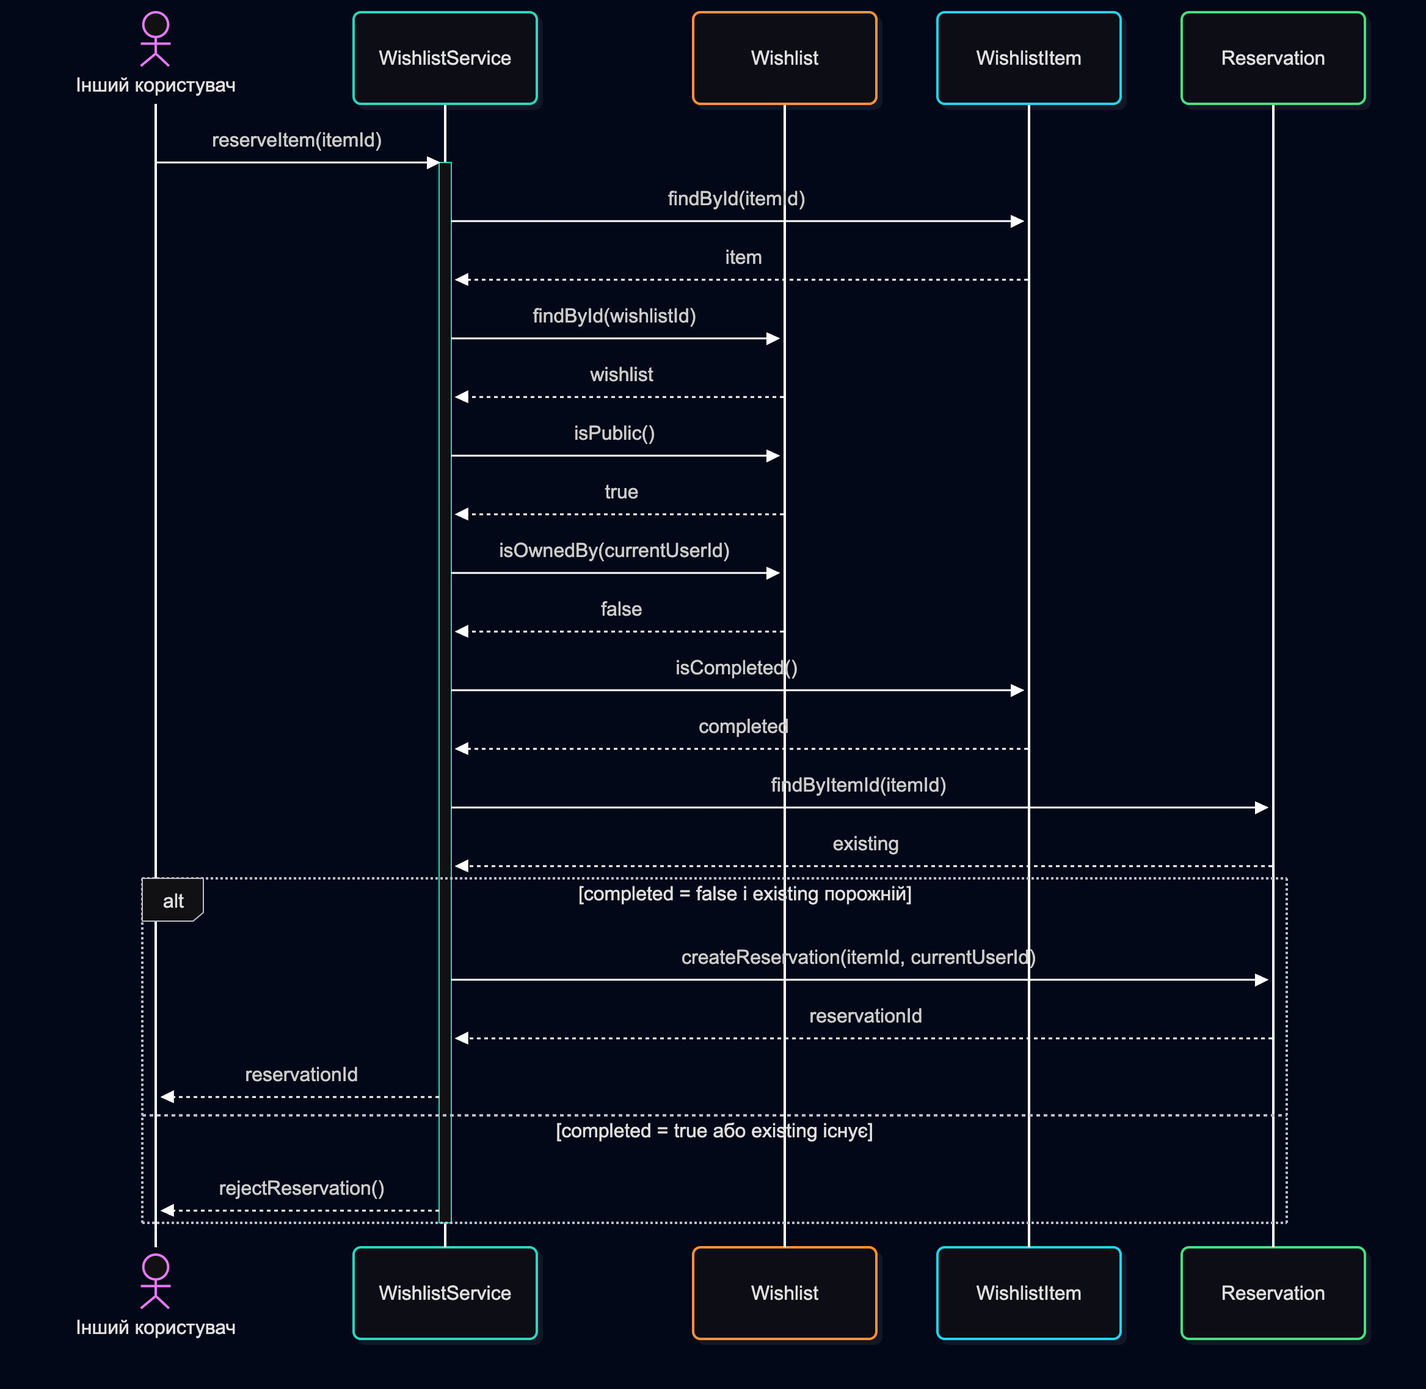
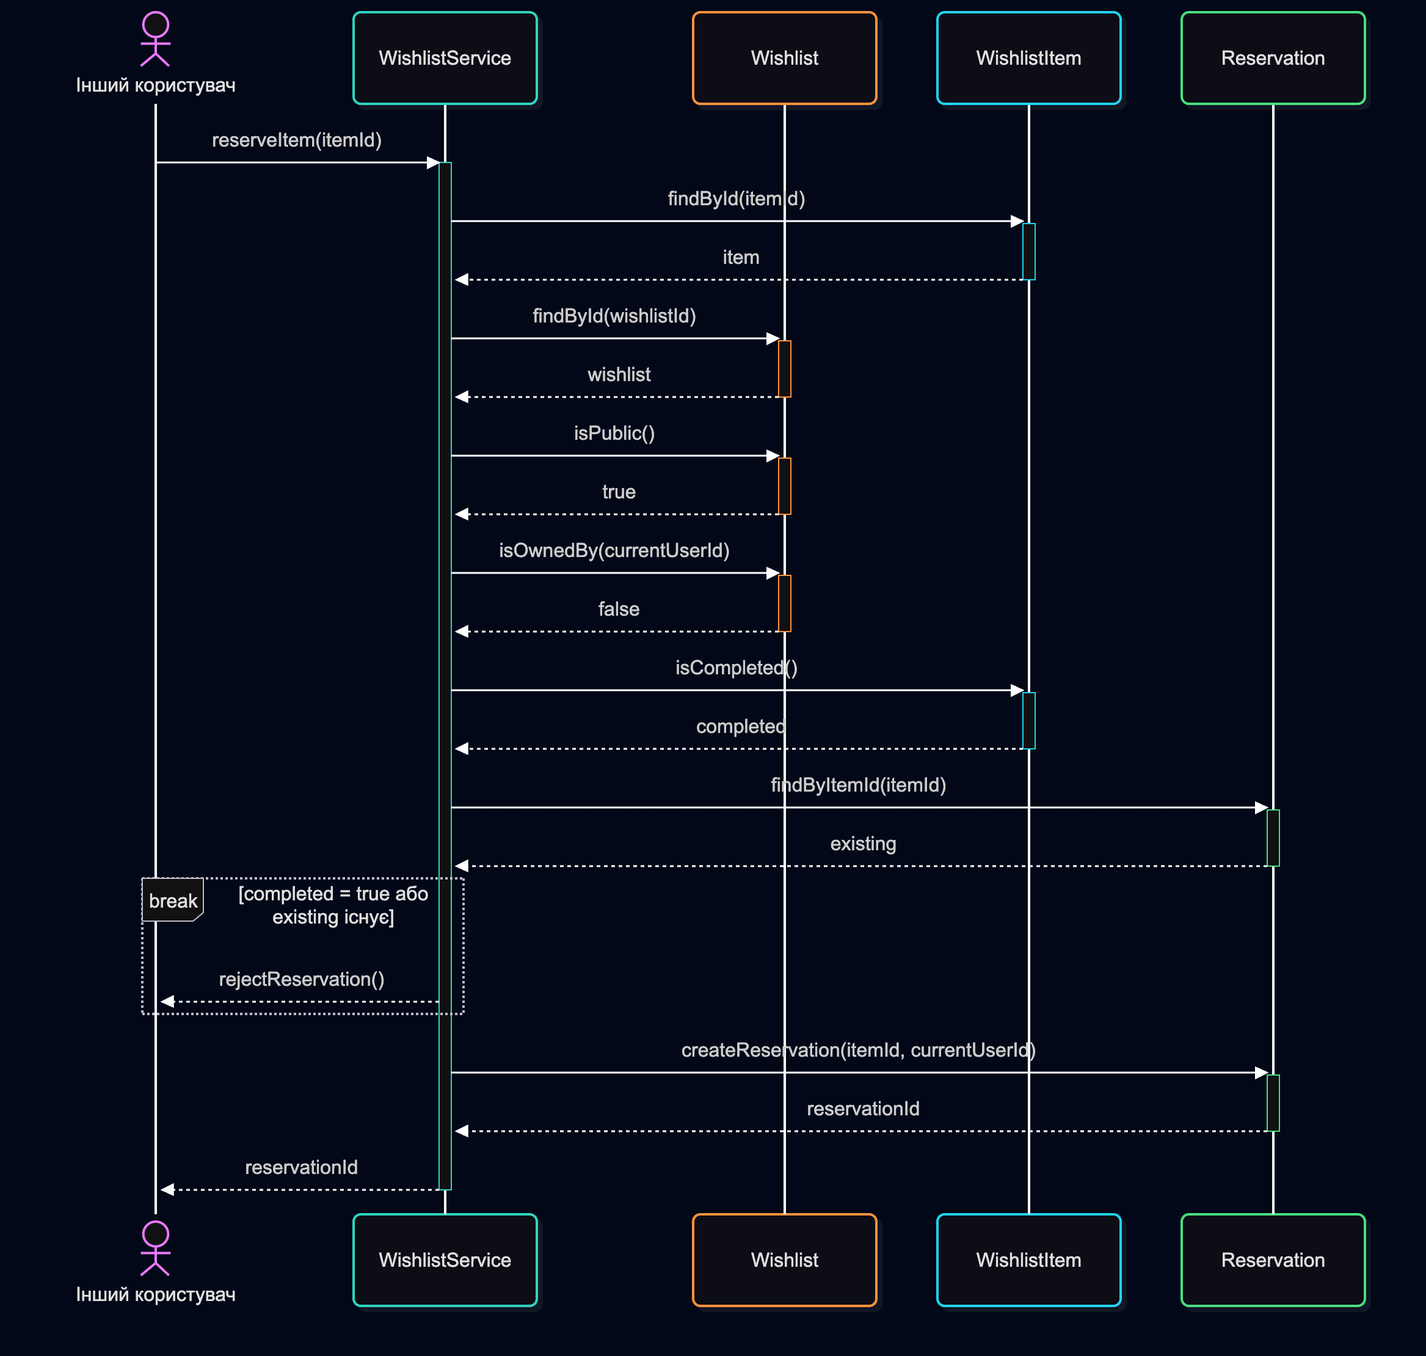
fix: use break for early reject and activate called entities

diff --git a/lab3/audit.md b/lab3/audit.md
@@ -15,15 +15,15 @@
 | Reservation | `Reservation` (`item_id`, `user_id`, `reserved_at`) |
 | WishlistService | компонент системи, який приймає `reserveItem()` |
 
-`WishlistService` не додає таблиці до моделі. `reserved_at` виставляє `WishlistService` усередині `createReservation(itemId, currentUserId)`. На SC-03 цей виклик стоїть лише в гілці `completed = false` і `existing` порожній. На SC-04 лінія `Reservation` є, бо гілка чужого товару може створити запис. Гілка `owned = true` викликає `rejectReservation()` і `createReservation()` не викликає. На SC-12 успішний `createReservation()` один: другий виклик для того самого `item_id` отримує `conflict`. Це зв'язок 1:0..1.
+`WishlistService` не додає таблиці до моделі. `reserved_at` виставляє `WishlistService` усередині `createReservation(itemId, currentUserId)`. На SC-03 цей виклик стоїть після `break`: охорона `completed = true` або `existing` існує для цього сценарію хибна. На SC-04 лінія `Reservation` є, бо після `break` з охороною `owned = true` шлях чужого товару може створити запис. Цей `break` викликає `rejectReservation()` і `createReservation()` не викликає. На SC-12 успішний `createReservation()` один: другий виклик для того самого `item_id` отримує `conflict`. Це зв'язок 1:0..1.
 
 ## 2. Кроки й сценарії Gherkin
 
-SC-03. Передумова «чужий публічний список» дає `isPublic() = true` і `isOwnedBy(currentUserId) = false`. Передумова «не завершений і без активного бронювання» — це гілка `completed = false` і `existing` порожній. Крок «користувач бронює товар» — це `reserveItem(itemId)`. Результат «система створює бронювання» — це `createReservation(itemId, currentUserId)` і повернення `reservationId`.
+SC-03. Передумова «чужий публічний список» дає `isPublic() = true` і `isOwnedBy(currentUserId) = false`. Передумова «не завершений і без активного бронювання» робить охорону `break` хибною, тож виконання йде лінійно до `createReservation`. Крок «користувач бронює товар» — це `reserveItem(itemId)`. Результат «система створює бронювання» — це `createReservation(itemId, currentUserId)` і повернення `reservationId`.
 
-SC-04. Передумова «товар належить до списку поточного користувача» — це гілка `owned = true`. Результат «система відхиляє запит, бронювання не створюється» — це `rejectReservation()` без `createReservation()`.
+SC-04. Передумова «товар належить до списку поточного користувача» — це `break` з охороною `owned = true`. Результат «система відхиляє запит, бронювання не створюється» — це `rejectReservation()` без `createReservation()`.
 
-Гілки `else` у SC-03 і SC-04 описують відмову для завершеного, уже заброньованого або приватного товару. Окремих сценаріїв Gherkin для них немає.
+Фрагменти `break` у SC-03 і SC-04 описують відмову для завершеного, уже заброньованого, власного або приватного товару. Окремих сценаріїв Gherkin для відмови в SC-03 і для другого `break` у SC-04 немає.
 
 SC-12. Передумова та сама, що в SC-03, але запити двоє. `par` показує, що обидва `findByItemId(itemId)` повертають `empty`. Результат «одне бронювання і відмова другому» — це `alt`: один `createReservation()` повертає `reservationId`, другий повертає `conflict`, і цей користувач отримує `rejectReservation()`. Обидві гілки дають один запис.
 

diff --git a/lab3/spec.md b/lab3/spec.md
@@ -19,7 +19,7 @@ UC-05 «Забронювати товар». Сценарії взято з ла
 | WishlistItem        | сутність лабораторної №1: `wishlist_id`, `is_completed`       |
 | Reservation         | сутність лабораторної №1: `item_id`, `user_id`, `reserved_at` |
 
-`WishlistService` активний до фрагмента `alt` і завершує активацію після нього. На SC-04 це стосується зовнішнього `alt`, разом із вкладеним. На SC-12 активація починається до `par` і закінчується після `alt`.
+`WishlistService` активний від `reserveItem(itemId)` і завершує активацію після відповіді користувачу. На SC-03 і SC-04 ця активація охоплює фрагменти `break` і лінійне продовження після них. На SC-12 вона починається до `par` і закінчується після `alt`. Кожен виклик `Wishlist`, `WishlistItem` і `Reservation` має власну активацію від вхідного повідомлення до відповіді.
 
 ## 3. SC-03. Успішне бронювання товару
 
@@ -32,8 +32,8 @@ UC-05 «Забронювати товар». Сценарії взято з ла
 5. `WishlistService` викликає `Wishlist.isOwnedBy(currentUserId)` і отримує `false`.
 6. `WishlistService` викликає `WishlistItem.isCompleted()` і отримує `completed`.
 7. `WishlistService` викликає `Reservation.findByItemId(itemId)` і отримує `existing`.
-8. `alt`: гілка `completed = false` і `existing` порожній викликає `Reservation.createReservation(itemId, currentUserId)` і отримує `reservationId`. Гілка `completed = true` або `existing` існує викликає `rejectReservation()` і запис не створює. Цей сценарій іде першою гілкою: Gherkin фіксує, що товар не завершений і бронювання немає.
-9. `WishlistService` повертає іншому користувачу `reservationId`.
+8. `break`: охорона `completed = true` або `existing` існує викликає `rejectReservation()` і запис не створює. Цей сценарій охорону не бере: Gherkin фіксує, що товар не завершений і бронювання немає.
+9. Далі лінійно `Reservation.createReservation(itemId, currentUserId)`. `WishlistService` повертає іншому користувачу `reservationId`.
 
 Результат Gherkin: система створює бронювання.
 
@@ -45,7 +45,7 @@ UC-05 «Забронювати товар». Сценарії взято з ла
 2. `WishlistService` викликає `WishlistItem.findById(itemId)` і отримує товар.
 3. `WishlistService` викликає `Wishlist.findById(wishlistId)` і отримує список.
 4. `WishlistService` викликає `Wishlist.isOwnedBy(currentUserId)` і отримує `owned`.
-5. `alt`: гілка `owned = true` викликає `rejectReservation()`. `Reservation.createReservation()` у цій гілці немає. Цей сценарій іде цією гілкою. Гілка `owned = false` викликає `Wishlist.isPublic()`, `WishlistItem.isCompleted()` і `Reservation.findByItemId(itemId)`. Вкладений `alt` створює бронювання лише коли список публічний, товар не завершений і `existing` порожній. Інакше знову `rejectReservation()`.
+5. Перший `break`: охорона `owned = true` викликає `rejectReservation()`. `createReservation()` після цього фрагмента не виконується. Цей сценарій іде цим `break`. Якщо `owned = false`, далі лінійно `Wishlist.isPublic()`, `WishlistItem.isCompleted()` і `Reservation.findByItemId(itemId)`. Другий `break`: охорона `public = false` або `completed = true` або `existing` існує знову викликає `rejectReservation()`. Якщо ця охорона хибна, лінійно `createReservation(itemId, currentUserId)` і повернення `reservationId`.
 
 Результат Gherkin: система відхиляє запит, бронювання не створюється.
 

diff --git a/lab3/DEFENSE.md b/lab3/DEFENSE.md
@@ -2,8 +2,8 @@
 
 ## Намір і критерії (1–2 речення)
 
-Мета завдання — описати внутрішню взаємодію Wishlist Service в сценаріях SC-03, SC-04 і SC-12 варіанта використання UC-05.
-Критерії успіху: окрема sequence-діаграма на кожен сценарій, учасники з ER-моделі, фрагменти `alt` і `par`, суцільна активація WishlistService.
+Мета завдання - описати внутрішню взаємодію Wishlist Service в сценаріях SC-03, SC-04 і SC-12 варіанта використання UC-05.
+Критерії успіху: окрема sequence-діаграма на кожен сценарій, учасники з ER-моделі, фрагменти `break`, `alt` і `par`, суцільна активація WishlistService.
 
 ## Топ-3 розбіжності (spec ↔ артефакт) + коміт-виправлення
 
@@ -19,7 +19,7 @@
 
 ## Перевірка — узгодженість із попередньою моделлю (як перевірив)
 
-Лінії життя зіставлено з сутностями лабораторної №1, кроки діаграм — зі SC-03, SC-04 і SC-12 у `lab2/scenarios.feature`. Охорона `alt` читає відповіді перевірок. На SC-12 фрагмент `par` показує два одночасні запити, а `alt` — хто встигає створити єдиний запис `Reservation`. Активація WishlistService починається до умовного фрагмента і закінчується після нього.
+Лінії життя зіставлено з сутностями лабораторної №1, кроки діаграм - зі SC-03, SC-04 і SC-12 у `lab2/scenarios.feature`. На SC-03 один `break` завершує сценарій відмовою, а створення бронювання йде лінійно після нього. На SC-04 два `break` так само відсікають відмову, успішний шлях після них лінійний. На SC-12 фрагмент `par` показує два одночасні запити, а `alt` — хто встигає створити єдиний запис `Reservation`. Активація WishlistService починається до умовного фрагмента і закінчується після відповіді користувачу. Виклики Wishlist, WishlistItem і Reservation мають короткі активації на час кожної відповіді.
 
 ## Здача
 

diff --git a/lab3/sc-12-reserve-concurrent.md b/lab3/sc-12-reserve-concurrent.md
@@ -15,45 +15,77 @@ sequenceDiagram
 
     par перевірка запиту A
         S->>Item: findById(itemId)
+        activate Item
         Item-->>S: item
+        deactivate Item
         S->>W: findById(wishlistId)
+        activate W
         W-->>S: wishlist
+        deactivate W
         S->>W: isPublic()
+        activate W
         W-->>S: true
+        deactivate W
         S->>W: isOwnedBy(userA)
+        activate W
         W-->>S: false
+        deactivate W
         S->>Item: isCompleted()
+        activate Item
         Item-->>S: false
+        deactivate Item
         S->>R: findByItemId(itemId)
+        activate R
         R-->>S: empty
+        deactivate R
     and перевірка запиту B
         S->>Item: findById(itemId)
+        activate Item
         Item-->>S: item
+        deactivate Item
         S->>W: findById(wishlistId)
+        activate W
         W-->>S: wishlist
+        deactivate W
         S->>W: isPublic()
+        activate W
         W-->>S: true
+        deactivate W
         S->>W: isOwnedBy(userB)
+        activate W
         W-->>S: false
+        deactivate W
         S->>Item: isCompleted()
+        activate Item
         Item-->>S: false
+        deactivate Item
         S->>R: findByItemId(itemId)
+        activate R
         R-->>S: empty
+        deactivate R
     end
 
     alt першим фіксується запит A
         S->>R: createReservation(itemId, userA)
+        activate R
         R-->>S: reservationId
+        deactivate R
         S-->>A: reservationId
         S->>R: createReservation(itemId, userB)
+        activate R
         R-->>S: conflict
+        deactivate R
         S-->>B: rejectReservation()
     else першим фіксується запит B
         S->>R: createReservation(itemId, userB)
+        activate R
         R-->>S: reservationId
+        deactivate R
         S-->>B: reservationId
         S->>R: createReservation(itemId, userA)
+        activate R
         R-->>S: conflict
+        deactivate R
         S-->>A: rejectReservation()
     end
     deactivate S

diff --git a/lab3/sc-04-reserve-own-item.md b/lab3/sc-04-reserve-own-item.md
@@ -11,28 +11,40 @@ sequenceDiagram
     User->>S: reserveItem(itemId)
     activate S
     S->>Item: findById(itemId)
+    activate Item
     Item-->>S: item
+    deactivate Item
     S->>W: findById(wishlistId)
+    activate W
     W-->>S: wishlist
+    deactivate W
     S->>W: isOwnedBy(currentUserId)
+    activate W
     W-->>S: owned
+    deactivate W
 
-    alt owned = true
+    break owned = true
         S-->>User: rejectReservation()
-    else owned = false
-        S->>W: isPublic()
-        W-->>S: public
-        S->>Item: isCompleted()
-        Item-->>S: completed
-        S->>R: findByItemId(itemId)
-        R-->>S: existing
-        alt public = true і completed = false і existing порожній
-            S->>R: createReservation(itemId, currentUserId)
-            R-->>S: reservationId
-            S-->>User: reservationId
-        else список приватний, товар завершений або вже заброньований
-            S-->>User: rejectReservation()
-        end
     end
+    S->>W: isPublic()
+    activate W
+    W-->>S: public
+    deactivate W
+    S->>Item: isCompleted()
+    activate Item
+    Item-->>S: completed
+    deactivate Item
+    S->>R: findByItemId(itemId)
+    activate R
+    R-->>S: existing
+    deactivate R
+    break public = false або completed = true або existing існує
+        S-->>User: rejectReservation()
+    end
+    S->>R: createReservation(itemId, currentUserId)
+    activate R
+    R-->>S: reservationId
+    deactivate R
+    S-->>User: reservationId
     deactivate S
 ```

diff --git a/lab3/sc-03-reserve-item.md b/lab3/sc-03-reserve-item.md
@@ -11,24 +11,37 @@ sequenceDiagram
     User->>S: reserveItem(itemId)
     activate S
     S->>Item: findById(itemId)
+    activate Item
     Item-->>S: item
+    deactivate Item
     S->>W: findById(wishlistId)
+    activate W
     W-->>S: wishlist
+    deactivate W
     S->>W: isPublic()
+    activate W
     W-->>S: true
+    deactivate W
     S->>W: isOwnedBy(currentUserId)
+    activate W
     W-->>S: false
+    deactivate W
     S->>Item: isCompleted()
+    activate Item
     Item-->>S: completed
+    deactivate Item
     S->>R: findByItemId(itemId)
+    activate R
     R-->>S: existing
+    deactivate R
 
-    alt completed = false і existing порожній
-        S->>R: createReservation(itemId, currentUserId)
-        R-->>S: reservationId
-        S-->>User: reservationId
-    else completed = true або existing існує
+    break completed = true або existing існує
         S-->>User: rejectReservation()
     end
+    S->>R: createReservation(itemId, currentUserId)
+    activate R
+    R-->>S: reservationId
+    deactivate R
+    S-->>User: reservationId
     deactivate S
 ```
